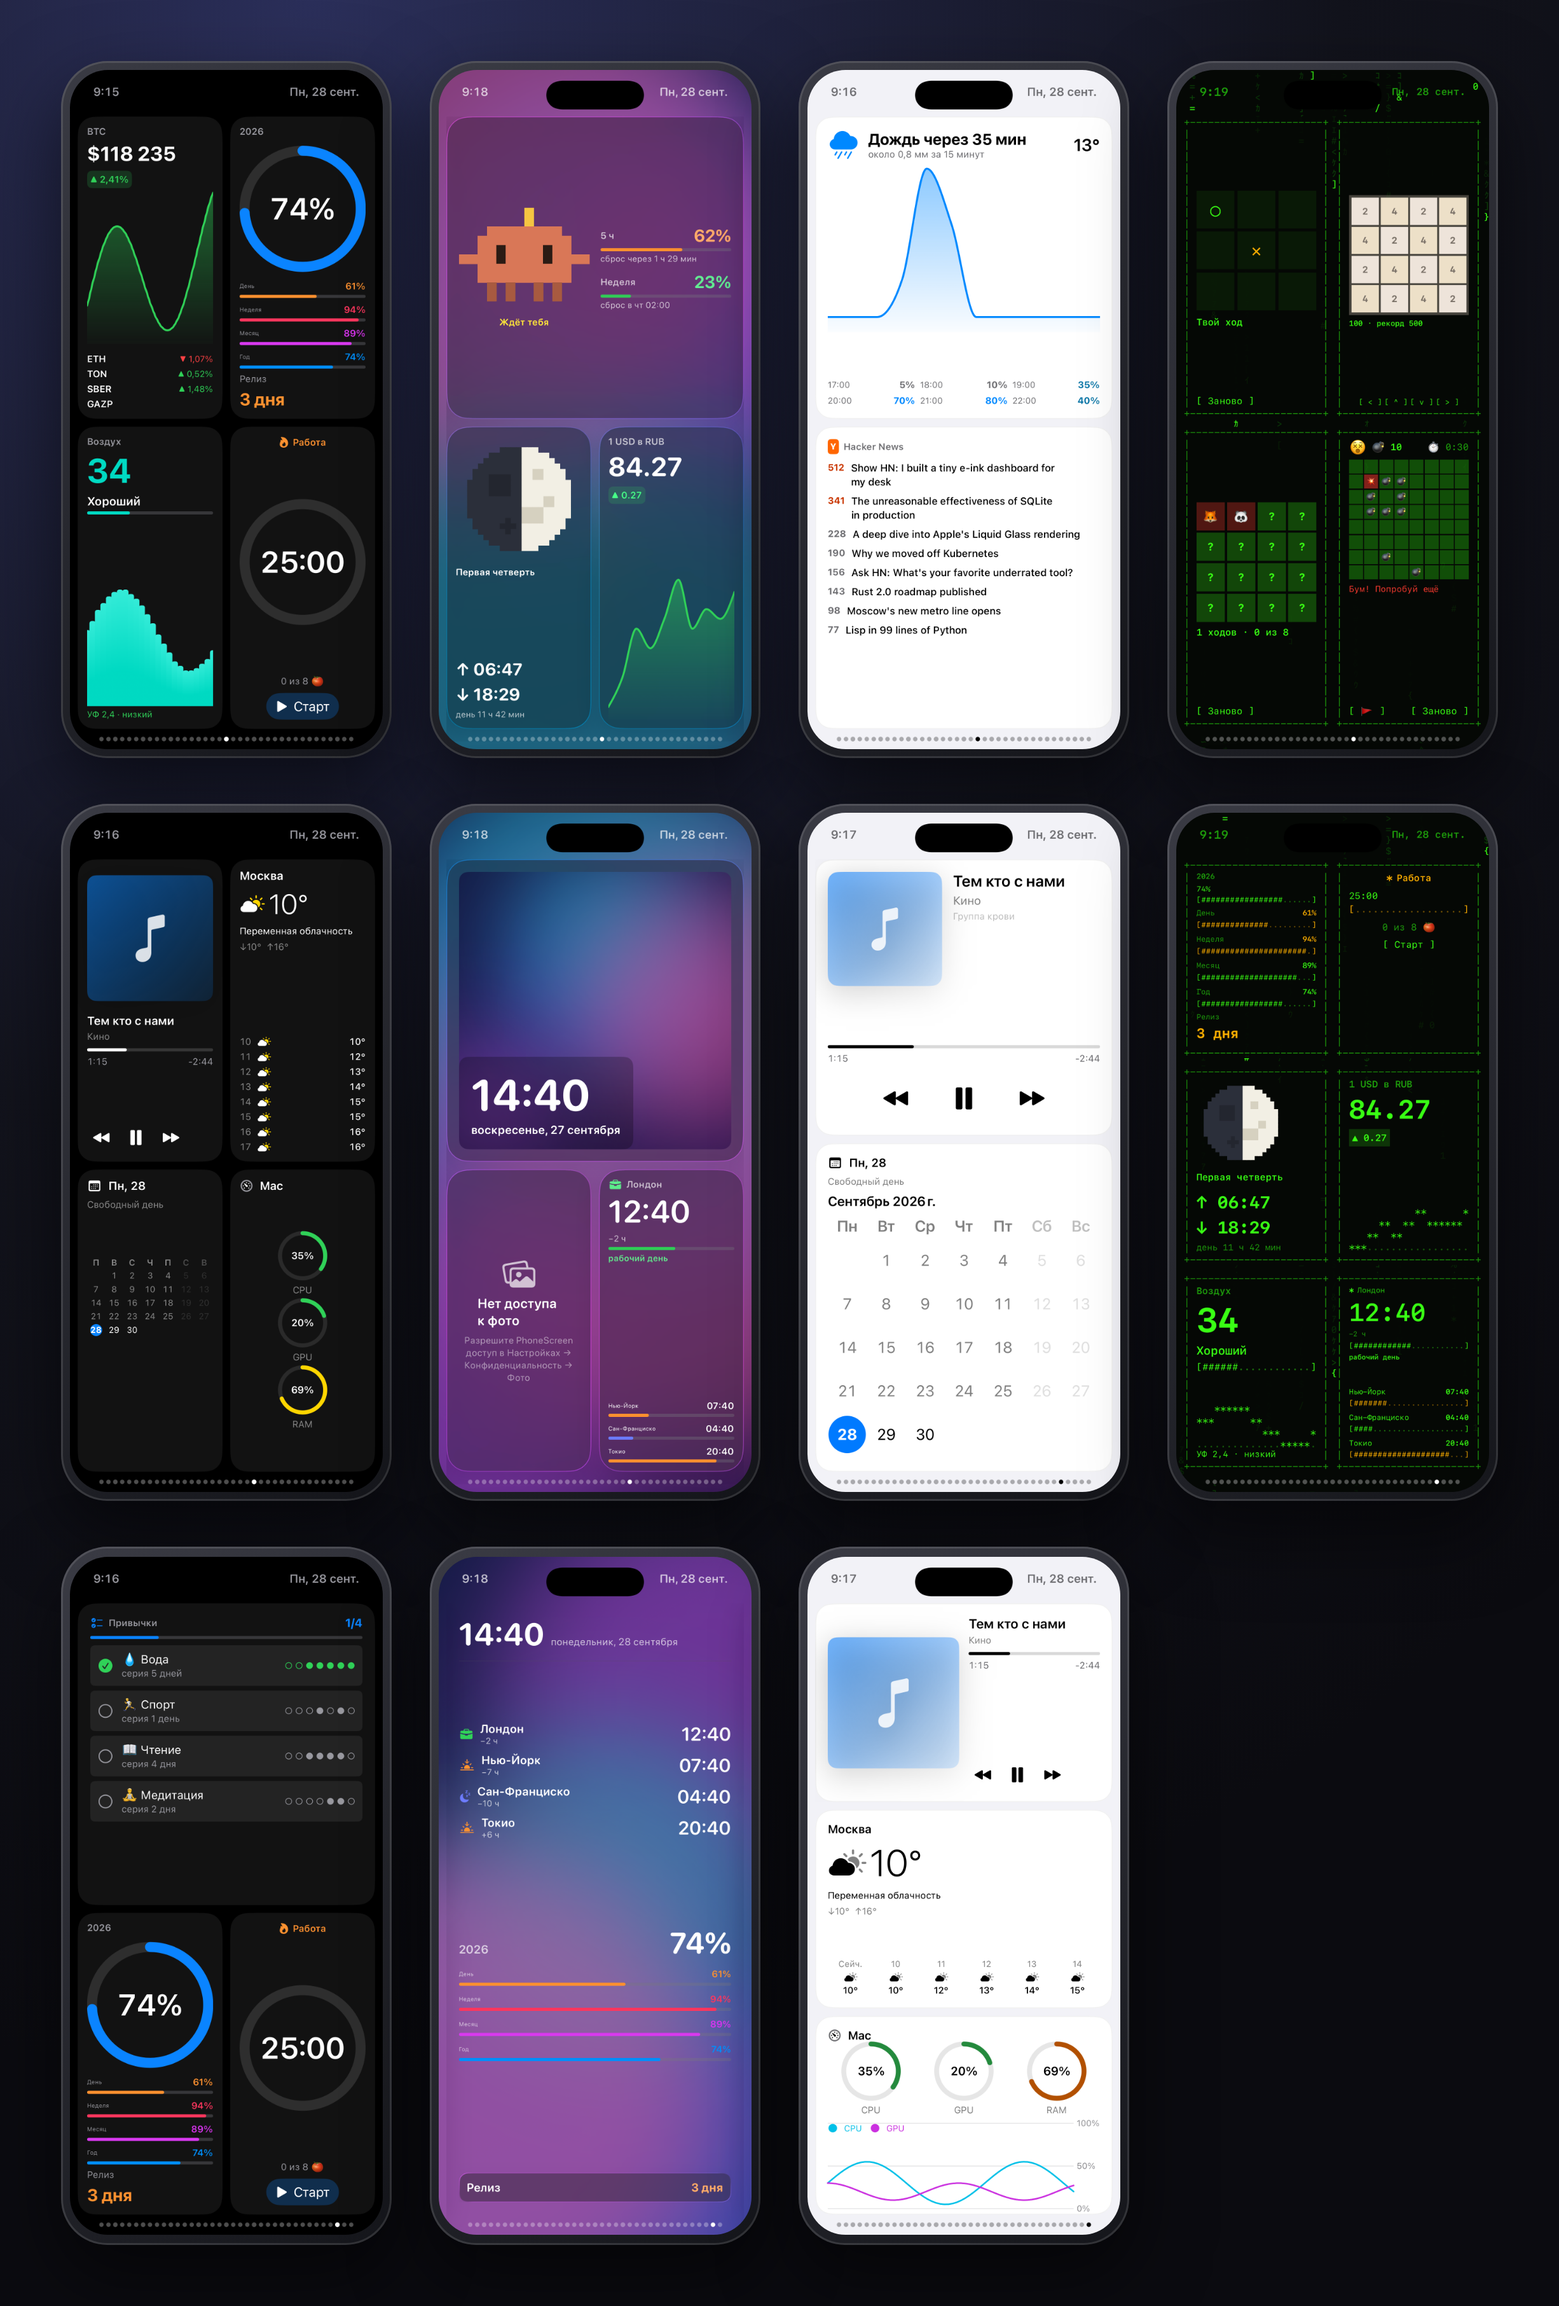
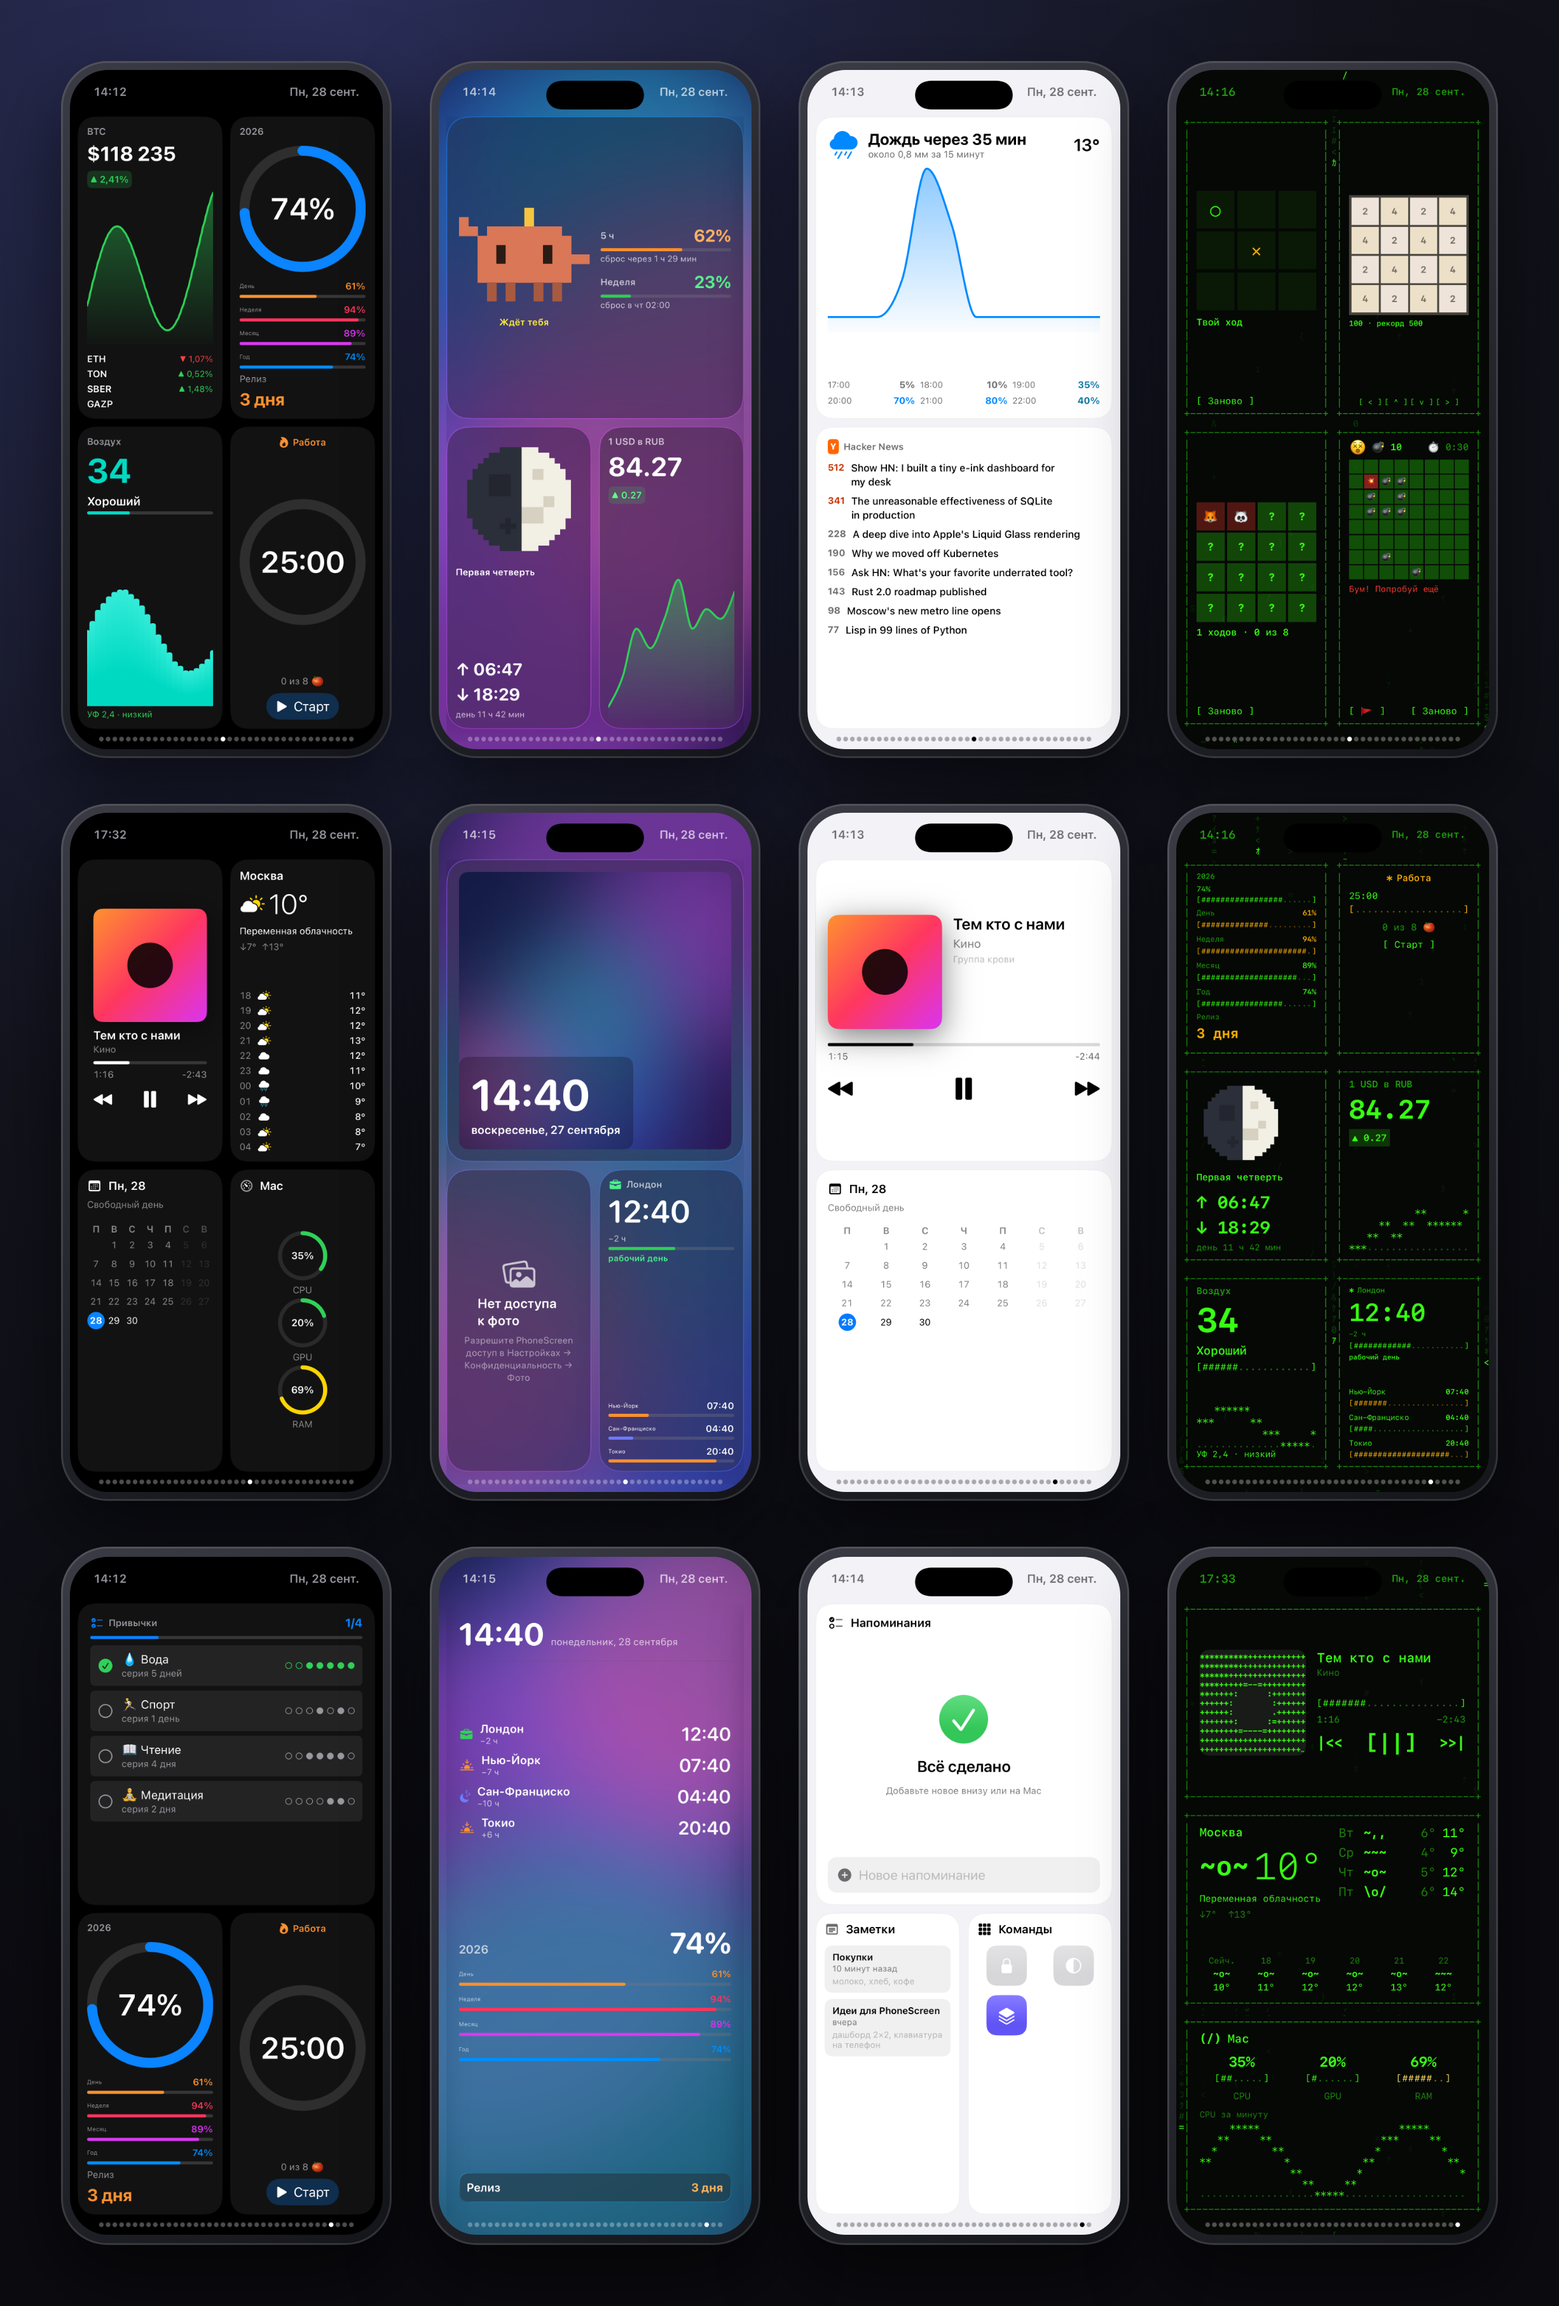
README: fresh screenshots of the new design; demo mode shows sample weather
Screenshots no longer depend on Open-Meteo being reachable; --demo-weather fetches the real forecast.

diff --git a/iOS/Widgets/Weather/WeatherPage.swift b/iOS/Widgets/Weather/WeatherPage.swift
@@ -37,6 +37,11 @@ final class WeatherModel: NSObject, ObservableObject, CLLocationManagerDelegate 
     }
 
     func start() {
+        #if DEBUG
+        // Demo screenshots shouldn't depend on the network; `--demo-weather` fetches the real forecast.
+        let args = ProcessInfo.processInfo.arguments
+        if args.contains("--demo"), !args.contains("--demo-weather") { forecast = Self.sample(); return }
+        #endif
         if authorization == .notDetermined { manager.requestWhenInUseAuthorization() }
         if let forecast, Date().timeIntervalSince(forecast.fetched) < 15 * 60 { return }
         manager.requestLocation()
@@ -105,6 +110,22 @@ final class WeatherModel: NSObject, ObservableObject, CLLocationManagerDelegate 
             self.error = "Нет данных о погоде"
         }
     }
+
+    #if DEBUG
+    /// A mild autumn day in Moscow for demo screenshots.
+    private static func sample() -> Forecast {
+        let hour = Calendar.current.dateInterval(of: .hour, for: Date())!.start
+        let day = Calendar.current.startOfDay(for: Date())
+        let temps: [Double] = [10, 11, 12, 12, 13, 12, 11, 10, 9, 8, 8, 7]
+        let codes = [2, 2, 1, 1, 2, 3, 3, 61, 61, 3, 2, 2]
+        return Forecast(place: "Москва", temperature: 10.4, feelsLike: 8.1, wind: 3.2, code: 2, isDay: true,
+                        hourly: temps.indices.map { (time: hour.addingTimeInterval(Double($0) * 3600), temp: temps[$0], code: codes[$0]) },
+                        daily: ([(7, 13, 2), (6, 11, 61), (4, 9, 3), (5, 12, 1), (6, 14, 0)] as [(Double, Double, Int)]).enumerated().map {
+                            (day: day.addingTimeInterval(Double($0.offset) * 86400), min: $0.element.0, max: $0.element.1, code: $0.element.2)
+                        },
+                        fetched: Date())
+    }
+    #endif
 
     private struct OpenMeteo: Decodable {
         struct Current: Decodable {
